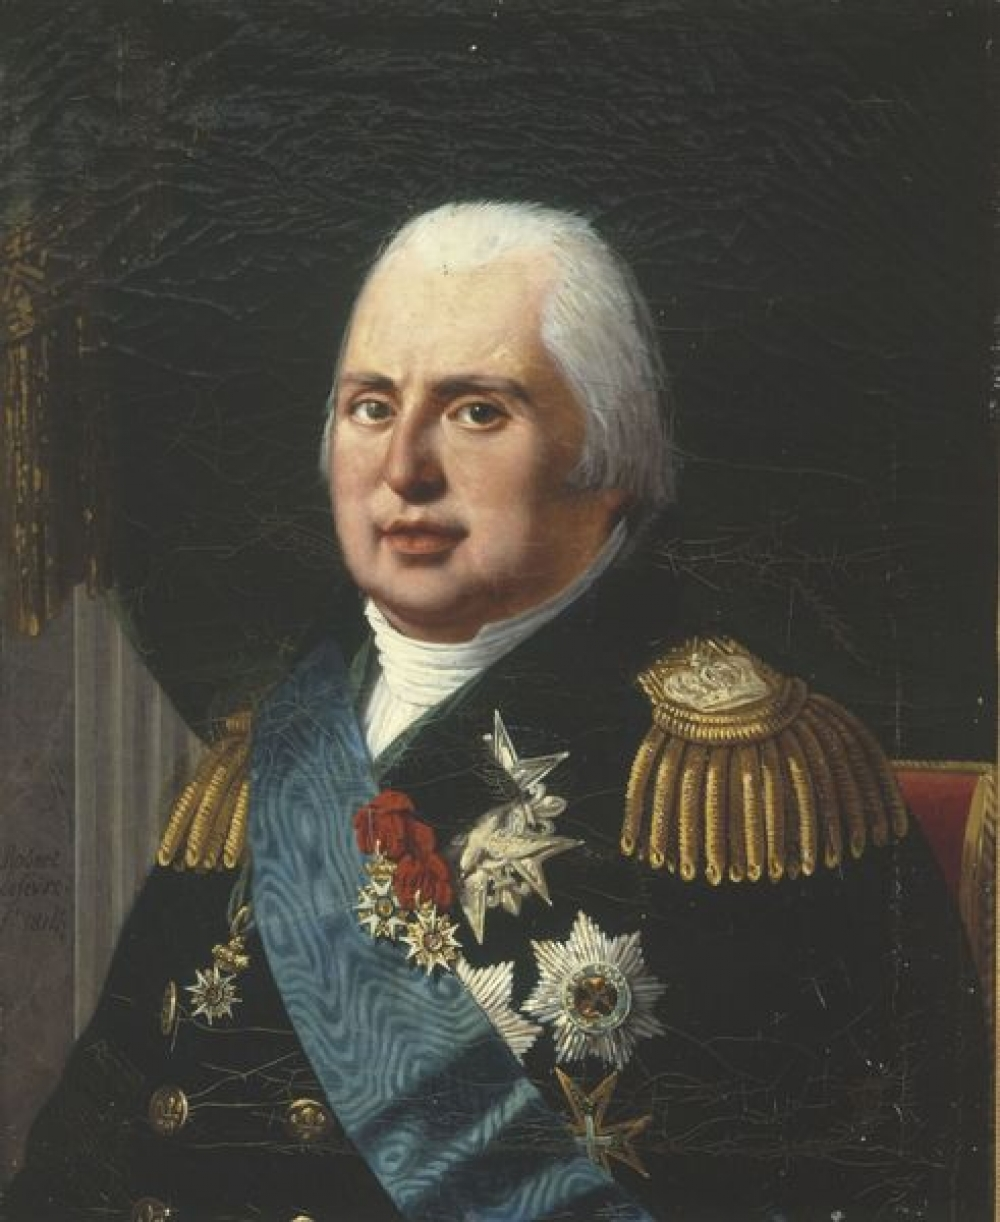
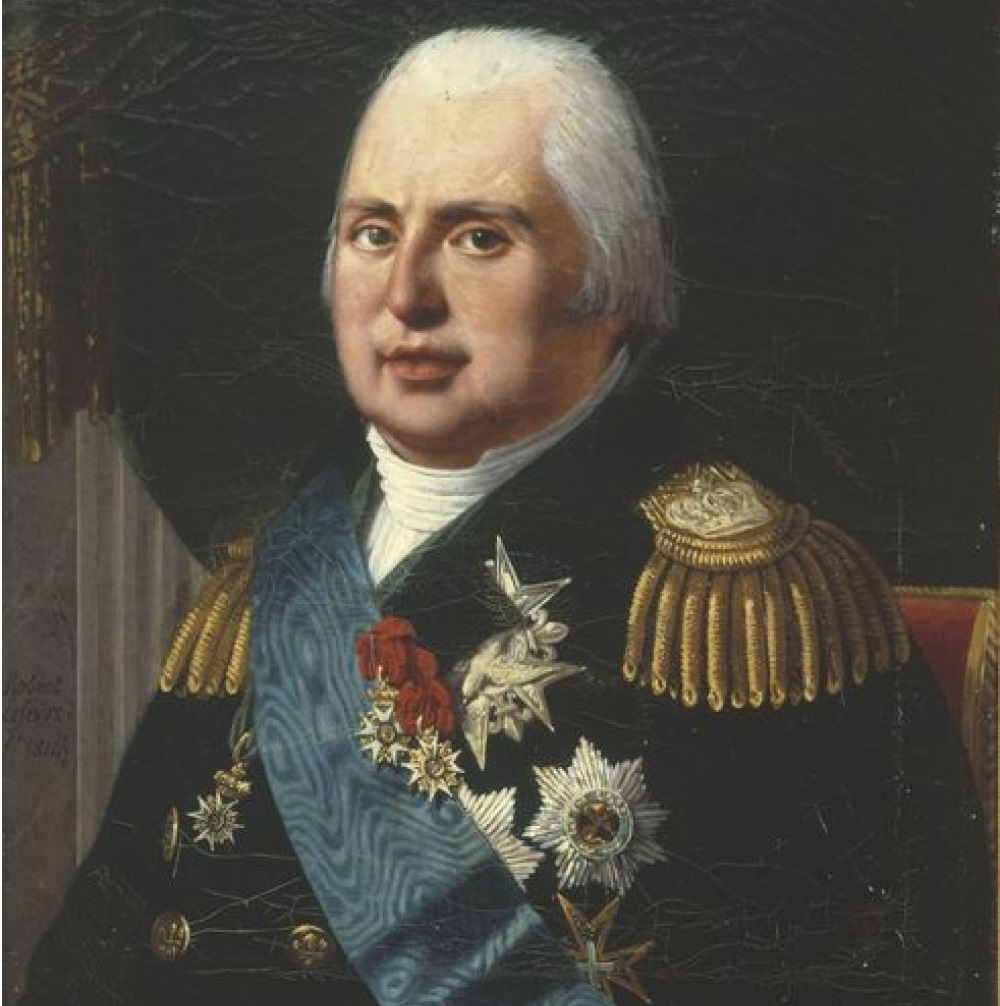
resize French governor pictures

diff --git a/Genealogy/src/main/java/Genealogy/Model/Date/Governor.java b/Genealogy/src/main/java/Genealogy/Model/Date/Governor.java
@@ -52,19 +52,9 @@ public class Governor {
     }
 
     public void addImage(ImageIcon image, int height, int width){
-        if (height != 0 &&width != 0){
-            int imageHeight = image.getIconHeight();
-            int imageWidth = image.getIconWidth();
-            if (imageHeight > imageWidth){
-                int newWidth = Math.round(height*imageWidth/imageHeight);
-                Image newImage = image.getImage().getScaledInstance(height,newWidth, Image.SCALE_DEFAULT);
-                image.setImage(newImage);
-            } else {
-                int newHeight = Math.round(width*imageHeight/imageWidth);
-                Image newImage = image.getImage().getScaledInstance(newHeight,width, Image.SCALE_DEFAULT);
-                image.setImage(newImage);
-            }
-            this.image = image;
+        if (height != 0 && width != 0){
+            Image newImage = image.getImage().getScaledInstance(height,width, Image.SCALE_DEFAULT);
+            this.image = new ImageIcon(newImage);
         } else {
             System.out.println("Erreur : les dimensions de l'image ne sont pas correctes");
         }
